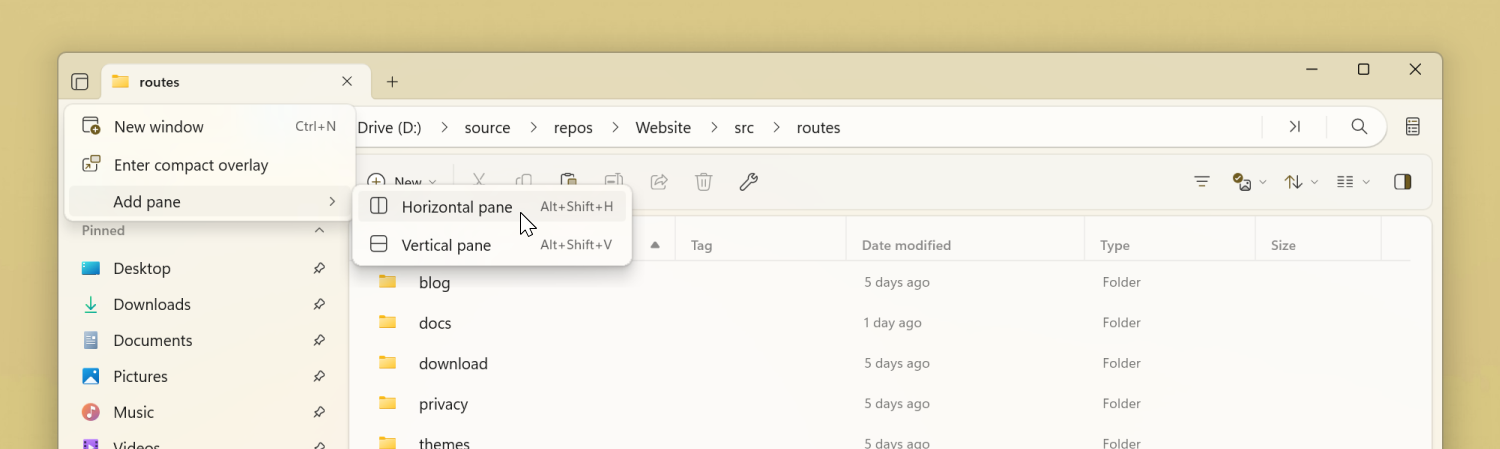
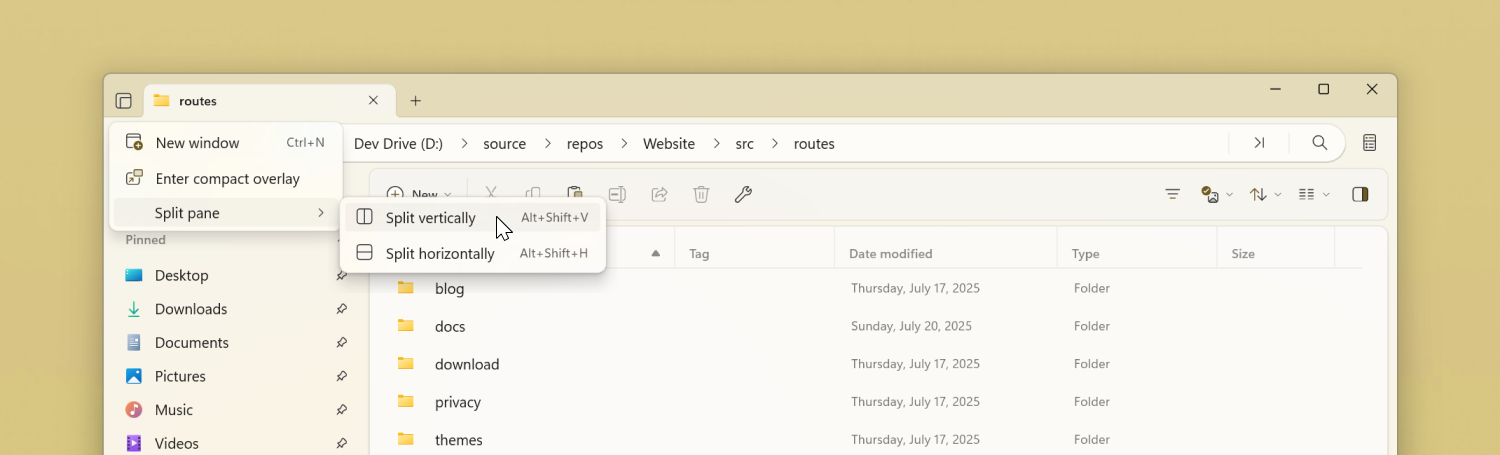
v3.9.14 (#792)

diff --git a/src/routes/docs/features/command-palette/+page.md b/src/routes/docs/features/command-palette/+page.md
@@ -28,6 +28,7 @@ Actions are commands that you can perform on items, such as files, folders, imag
 | **Toggle Info Pane**                   | <kbd>Ctrl</kbd>+<kbd>Alt</kbd>+<kbd>I</kbd>   | Toggles the Info Pane                                |
 | **Toggle Toolbar**                     | <kbd>Ctrl</kbd>+<kbd>Shift</kbd>+<kbd>B</kbd>  | Toggles the Toolbar visibility                       |
 | **Toggle filter header**               |                                     | Toggles the visibility of the filter header          |
+| **Toggle dual pane**                   |                                     | Toggles dual pane mode                               |
 | **Copy item**                          | <kbd>Ctrl</kbd>+<kbd>C</kbd>        | Copy selected items to the clipboard                 |
 | **Copy item path**                     | <kbd>Ctrl</kbd>+<kbd>Shift</kbd>+<kbd>C</kbd>  | Copy paths of the selected items to the clipboard    |
 | **Copy item path with quotes**         | <kbd>Alt</kbd>+<kbd>Ctrl</kbd>+<kbd>C</kbd>    | Copy paths of the selected items with quotes to the clipboard |
@@ -160,8 +161,8 @@ Actions are commands that you can perform on items, such as files, folders, imag
 | **Move to the previous tab**           | <kbd>Ctrl</kbd>+<kbd>Shift</kbd>+<kbd>Tab</kbd>  | Switches focus to the previous tab                   |
 | **Move to the next tab**               | <kbd>Ctrl</kbd>+<kbd>Tab</kbd>      | Switches focus to the next tab                       |
 | **Close tab**                          | <kbd>Ctrl</kbd>+<kbd>W</kbd>, <kbd>Ctrl</kbd>+<kbd>F4</kbd>  | Closes the current tab                               |
-| **Add horizontal pane**                | <kbd>Alt</kbd>+<kbd>Shift</kbd>+<kbd>H</kbd>  | Opens a new pane arranged horizontally               |
-| **Add vertical pane**                  | <kbd>Alt</kbd>+<kbd>Shift</kbd>+<kbd>V</kbd>  | Opens a new pane arranged vertically                 |
+| **Split horizontally**                 | <kbd>Alt</kbd>+<kbd>Shift</kbd>+<kbd>H</kbd>  | Splits pane horizontally                   |
+| **Split vertically**                   | <kbd>Alt</kbd>+<kbd>Shift</kbd>+<kbd>V</kbd>  | Splits pane vertically                     |
 | **Arrange panes horizontally**         |                                     | Arranges open panes horizontally                     |
 | **Arrange panes vertically**           |                                     | Arranges open panes vertically                       |
 | **Close active pane**                  | <kbd>Ctrl</kbd>+<kbd>Alt</kbd>+<kbd>W</kbd>  | Closes the active new pane                           |

diff --git a/src/routes/blog/posts/v3-9-14/+page.md b/src/routes/blog/posts/v3-9-14/+page.md
@@ -1,0 +1,56 @@
+---
+title: Announcing Files Preview v3.9.14
+description: Announcing Files Preview v3.9.14 for users of the preview version.
+thumbnail: /blog-resources/v4-preview/3-9-14.png
+date: 8/4/2025
+author: files-community
+---
+
+Today we are releasing **Files Preview v3.9.14** for users of the preview version. New users can get started from our [download page](/download/). If you'd like to support the project, consider purchasing Files on the [Microsoft Store](ms-windows-store://pdp/?ProductId=9NSQD9PKV3SS&cid=FilesWebsite) or sponsoring us on [GitHub](https://github.com/sponsors/yaira2). Your support is greatly appreciated but entirely optional.
+
+## Changes
+
+### Signatures page in the properties window
+
+A new **Signatures** page has been added to the properties window, making it easier to view digital signatures associated with a file.
+
+<figure>
+    <img src="/blog-resources/v4-preview/Signatures.png" alt="Signatures page" />
+    <figcaption>Signatures page</figcaption>
+</figure>
+
+### Improved Dual Pane experience
+
+The Dual Pane feature has been refined to feel more intuitive:
+
+- **Add pane** is now labeled **Split pane** for clarity  
+- Added an [action](/docs/customize-settings/actions/) that lets you quickly toggle Dual Pane mode on or off
+- Dual Pane settings now have a dedicated section in the [general](/docs/customize-settings/general) settings page
+
+<figure>
+    <img src="/blog-resources/v4-preview/DualPaneSettings.png" alt="Dual pane settings" />
+    <figcaption>Dual pane settings</figcaption>
+</figure>
+
+### Resizable columns in Columns View
+
+Columns in the **Columns View** layout are now resizable. You can drag the divider between columns to adjust their width, or double-click the divider to auto-size.
+
+### Search results header
+
+Search results now include a header that clearly displays your current query.
+
+<figure>
+    <img src="/blog-resources/v4-preview/SearchHeader.png" alt="Search header" />
+    <figcaption>Search header</figcaption>
+</figure>
+
+## Conclusion
+
+As always, we appreciate your feedback and suggestions on how we improve Files. You can reach us on [Discord](https://discord.gg/files) and on [GitHub](https://github.com/files-community/Files/).
+
+Thank you for using Files! 😊
+
+---
+
+Download Files Preview from the [Microsoft Store](ms-windows-store://pdp/?ProductId=9NSQD9PKV3SS&cid=FilesWebsite) | Sponsor us on [GitHub](https://github.com/sponsors/yaira2/)

diff --git a/src/routes/docs/customize-settings/general/+page.md b/src/routes/docs/customize-settings/general/+page.md
@@ -32,14 +32,6 @@ When launching Files, you have a few choices for how the app behaves on startup:
 
 When this setting is turned on, launching Files from another program (such as Task Manager) will open a new tab in the existing window.
 
-## Open tabs in dual pane mode
-
-If you frequently compare or transfer files between locations, enabling this setting can save time by automatically opening new tabs in [dual pane](/docs/features/dual-pane) mode.
-
-### Default pane arrangement
-
-Tabs can be set to open with a **horizontal** or **vertical** dual pane arrangement.
-
 ## Always switch focus to newly created tab
 
 By default, when you open a folder in a new tab, Files will keep your current tab in focus. If you'd prefer to automatically switch to the newly opened tab, you can enable this option.
@@ -53,6 +45,14 @@ The Files Home page offers customizable widgets to provide quick access to impor
 - Network locations
 - Tags
 - Recent files
+
+## Open tabs in dual pane mode
+
+If you frequently compare or transfer files between locations, enabling this setting can save time by automatically opening new tabs in [dual pane](/docs/features/dual-pane) mode.
+
+### Default dual pane split direction arrangement
+
+Tabs can be set to open with a **horizontal** or **vertical** split.
 
 ## Context menu options
 
